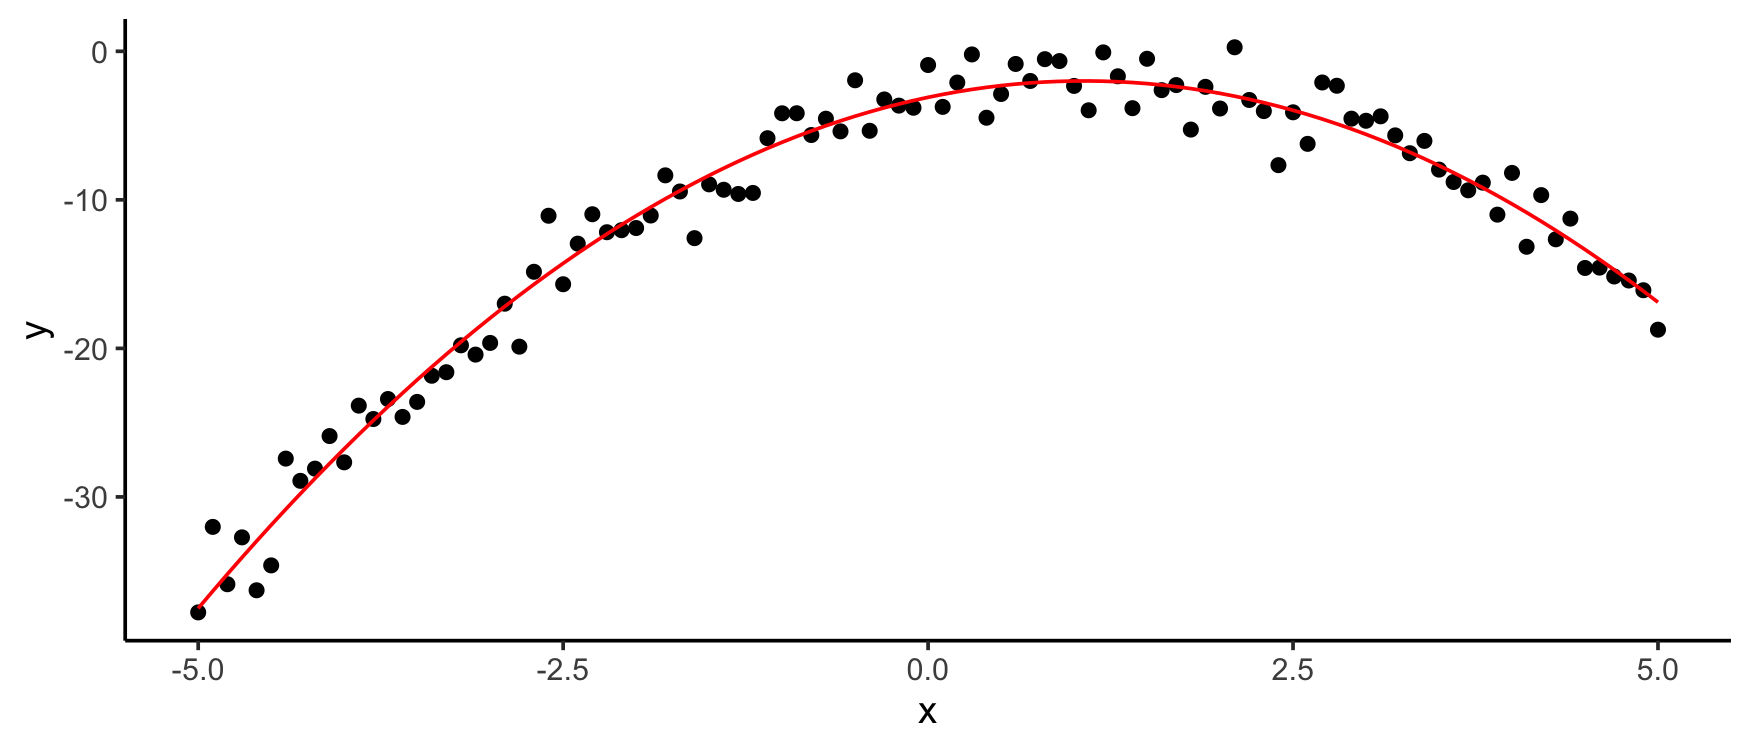
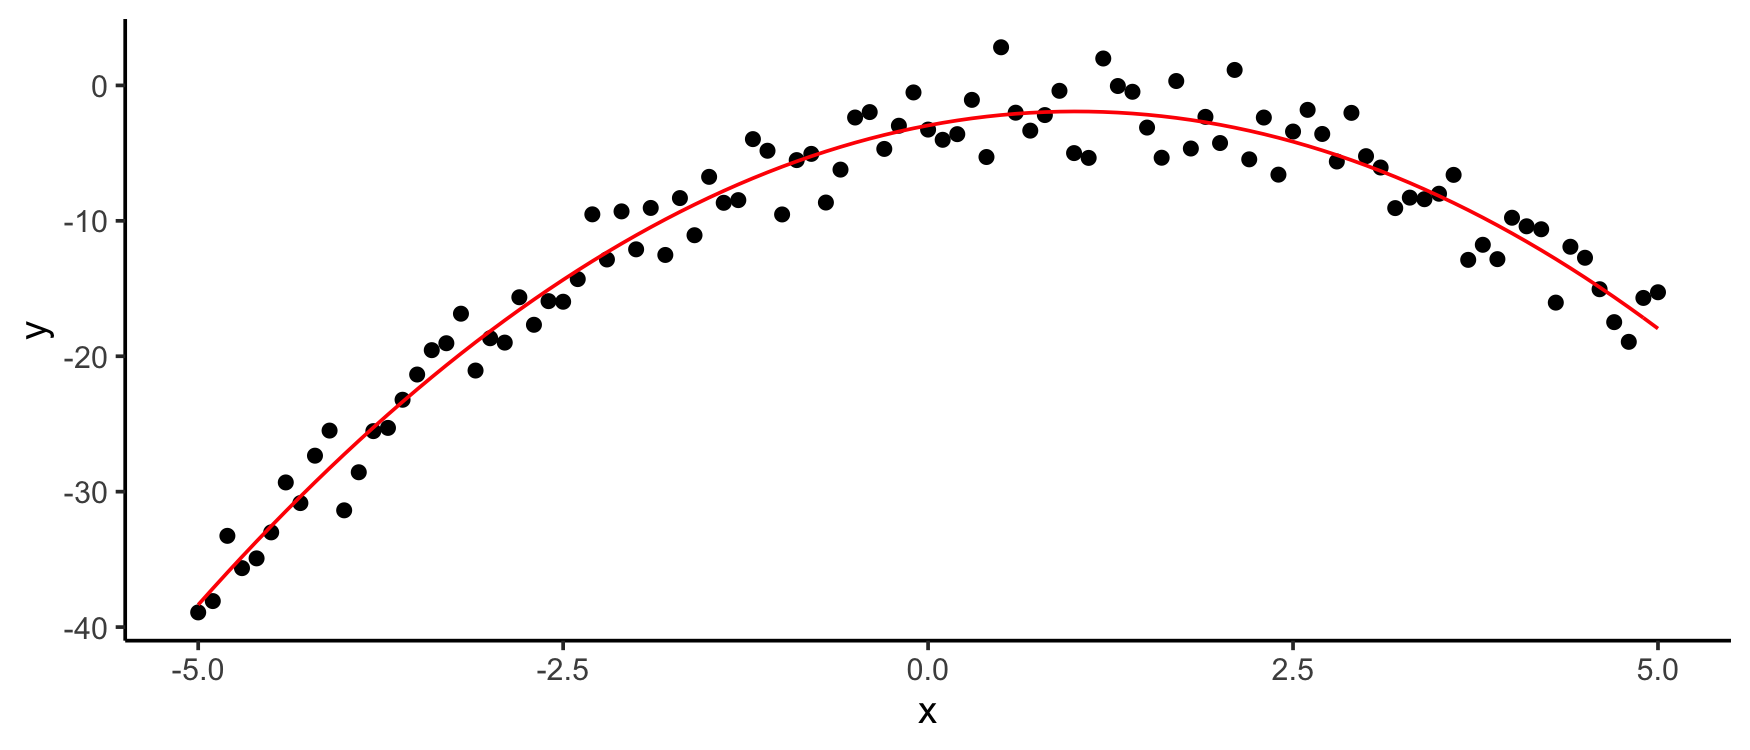
compile README.Rmd -> README.md... :)

diff --git a/README.md b/README.md
@@ -7,6 +7,8 @@ mpoly
 
 [![CRAN
 status](https://www.r-pkg.org/badges/version/mpoly)](https://cran.r-project.org/package=mpoly)
+[![Travis build
+status](https://travis-ci.org/dkahle/mpoly.svg?branch=master)](https://travis-ci.org/dkahle/mpoly)
 <!-- badges: end -->
 
 Specifying polynomials
@@ -558,7 +560,7 @@ df$y <- with(df, -x^2 + 2*x - 3 + rnorm(n, 0, 2))
 
 mod <- lm(y ~ x + I(x^2), data = df)
 (p <- mod %>% as.mpoly %>% round)
-# 2.061 x  -  0.964 x^2  -  3.098
+# 2.04 x  -  1.008 x^2  -  2.955
 qplot(x, y, data = df) +
   stat_function(fun = as.function(p), colour = 'red')
 # f(.) with . = x
@@ -578,19 +580,19 @@ df <- expand.grid(x = s, y = s) %>%
 # 
 # Coefficients:
 #                           (Intercept)  
-#                             -0.022848  
+#                              0.078009  
 # poly(x, y, degree = 2, raw = TRUE)1.0  
-#                             -0.004783  
+#                              0.000606  
 # poly(x, y, degree = 2, raw = TRUE)2.0  
-#                              0.999084  
+#                              1.001773  
 # poly(x, y, degree = 2, raw = TRUE)0.1  
-#                              0.011694  
+#                             -0.004435  
 # poly(x, y, degree = 2, raw = TRUE)1.1  
-#                              2.994753  
+#                              2.999466  
 # poly(x, y, degree = 2, raw = TRUE)0.2  
-#                             -0.999115
+#                             -1.003590
 as.mpoly(mod)
-# -0.004783382 x  +  0.9990843 x^2  +  0.01169415 y  +  2.994753 x y  -  0.9991152 y^2  -  0.022848
+# 0.0006059845 x  +  1.001773 x^2  -  0.004435017 y  +  2.999466 x y  -  1.00359 y^2  +  0.07800872
 ```
 
 Installation
